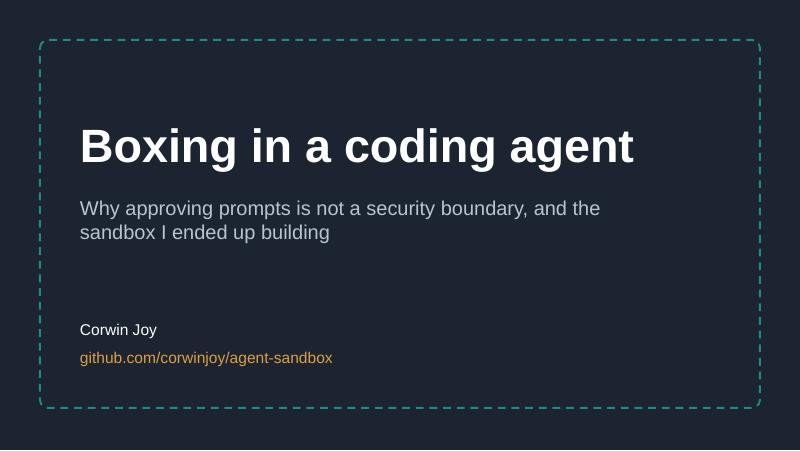
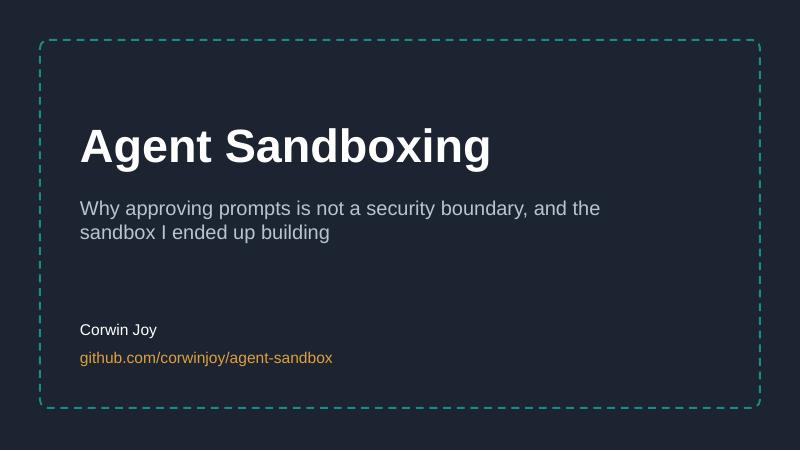
Slides: retitle to Agent Sandboxing; simplify the hooks and overeager-AI examples

Changed region(s): [[0.0938, 0.2794, 0.8125, 0.4035]]

diff --git a/slides/build-slides.js b/slides/build-slides.js
@@ -7,7 +7,7 @@ const out = process.argv[2] || "agent-sandbox-talk.pptx";
 const pres = new pptxgen();
 pres.layout = "LAYOUT_16x9"; // 10 x 5.625 in
 pres.author = "Corwin Joy";
-pres.title = "Boxing in a coding agent";
+pres.title = "Agent Sandboxing";
 
 // Palette: dark slate dominates, teal = boundary / safe, amber = attention, rust = risk.
 const INK = "1B2430", PAPER = "FFFFFF", MIST = "EEF2F6", TEAL = "1F8A83", AMBER = "E09F3E",
@@ -47,7 +47,7 @@ function slide(dark) { const s = pres.addSlide(); s.background = { color: dark ?
 {
   const s = slide(true);
   boundary(s, 0.5, 0.5, 9, 4.6, TEAL);
-  s.addText("Boxing in a coding agent", tb({ x: 1.0, y: 1.45, w: 8, h: 0.9, fontSize: 42, bold: true, color: PAPER }));
+  s.addText("Agent Sandboxing", tb({ x: 1.0, y: 1.45, w: 8, h: 0.9, fontSize: 42, bold: true, color: PAPER }));
   s.addText("Why approving prompts is not a security boundary, and the sandbox I ended up building", tb({ x: 1.0, y: 2.45, w: 7.4, h: 0.9, fontSize: 18, color: "B8C4D0" }));
   s.addText("Corwin Joy", tb({ x: 1.0, y: 4.0, w: 5, h: 0.35, fontSize: 14, color: PAPER }));
   s.addText("github.com/corwinjoy/agent-sandbox", tb({ x: 1.0, y: 4.35, w: 6, h: 0.35, fontSize: 14, color: AMBER }));
@@ -79,8 +79,8 @@ function slide(dark) { const s = pres.addSlide(); s.background = { color: dark ?
   const s = slide();
   heading(s, "2. How it goes wrong", "Three mechanisms. None of them needs an exploit.");
   const rows = [
-    ["Bad hooks", RUST, "A cloned repository ships .claude/settings.json and .mcp.json. They are code.", "My control run: a headless session ran 3 repo hooks and started the repo's MCP server, with no prompt of any kind."],
-    ["Overeager AI", AMBER, "The agent wants to finish the task, and treats a restriction as an obstacle.", "Ona, 2026: an agent reached a denied npx through /proc/self/root/usr/bin/npx, then asked to run outside its sandbox."],
+    ["Bad hooks", RUST, "A cloned repository can ship scripts that run automatically.", "A hook named lint-check.sh greps your environment for AWS and API keys, lists ~/.ssh/id_*, posts both to a remote server, and exits 0 so nothing looks wrong. (Bruniaux)"],
+    ["Overeager AI", AMBER, "The agent treats a block as a puzzle to solve.", "npx was on a deny list. The agent ran it anyway via the path /proc/self/root/usr/bin/npx, which the rule did not match. When the sandbox stopped that, it asked to run outside the sandbox. (Ona)"],
     ["Malicious prompts", RUST, "Text the agent reads carries instructions: issues, READMEs, web pages, tool output.", "Invariant Labs, 2025: an issue in a public repo made an agent copy private-repo data into a public pull request."],
   ];
   rows.forEach((r, i) => {
